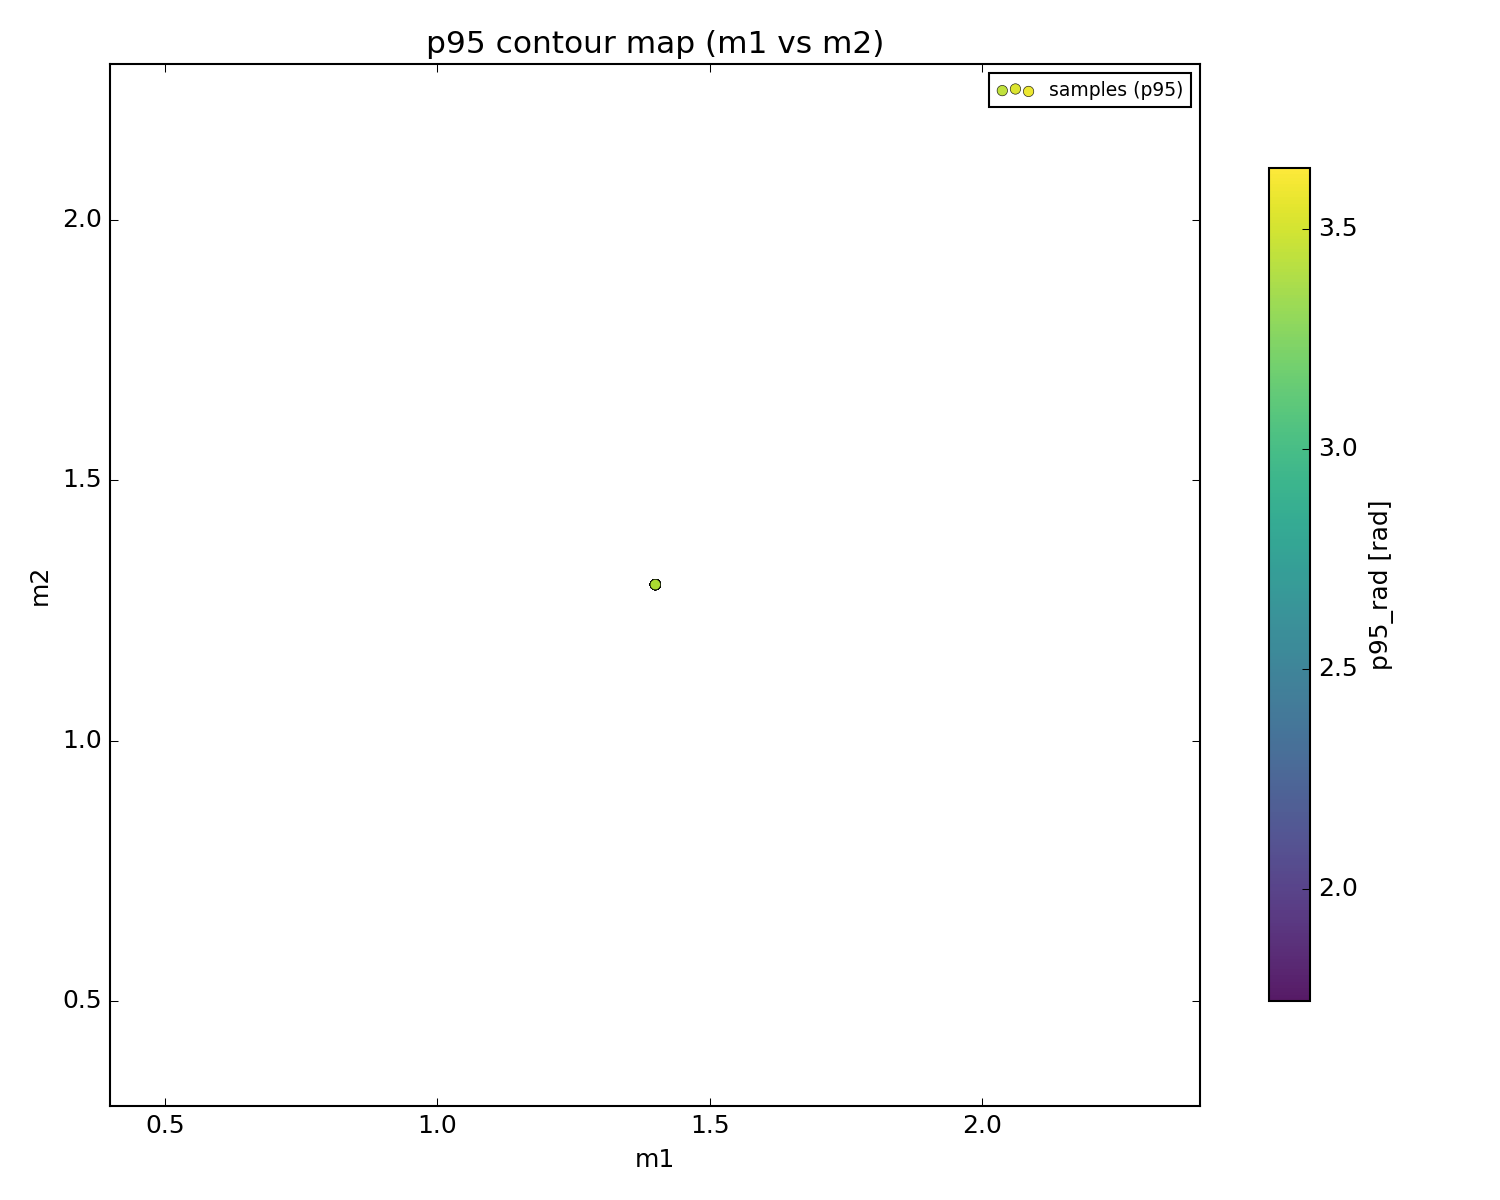
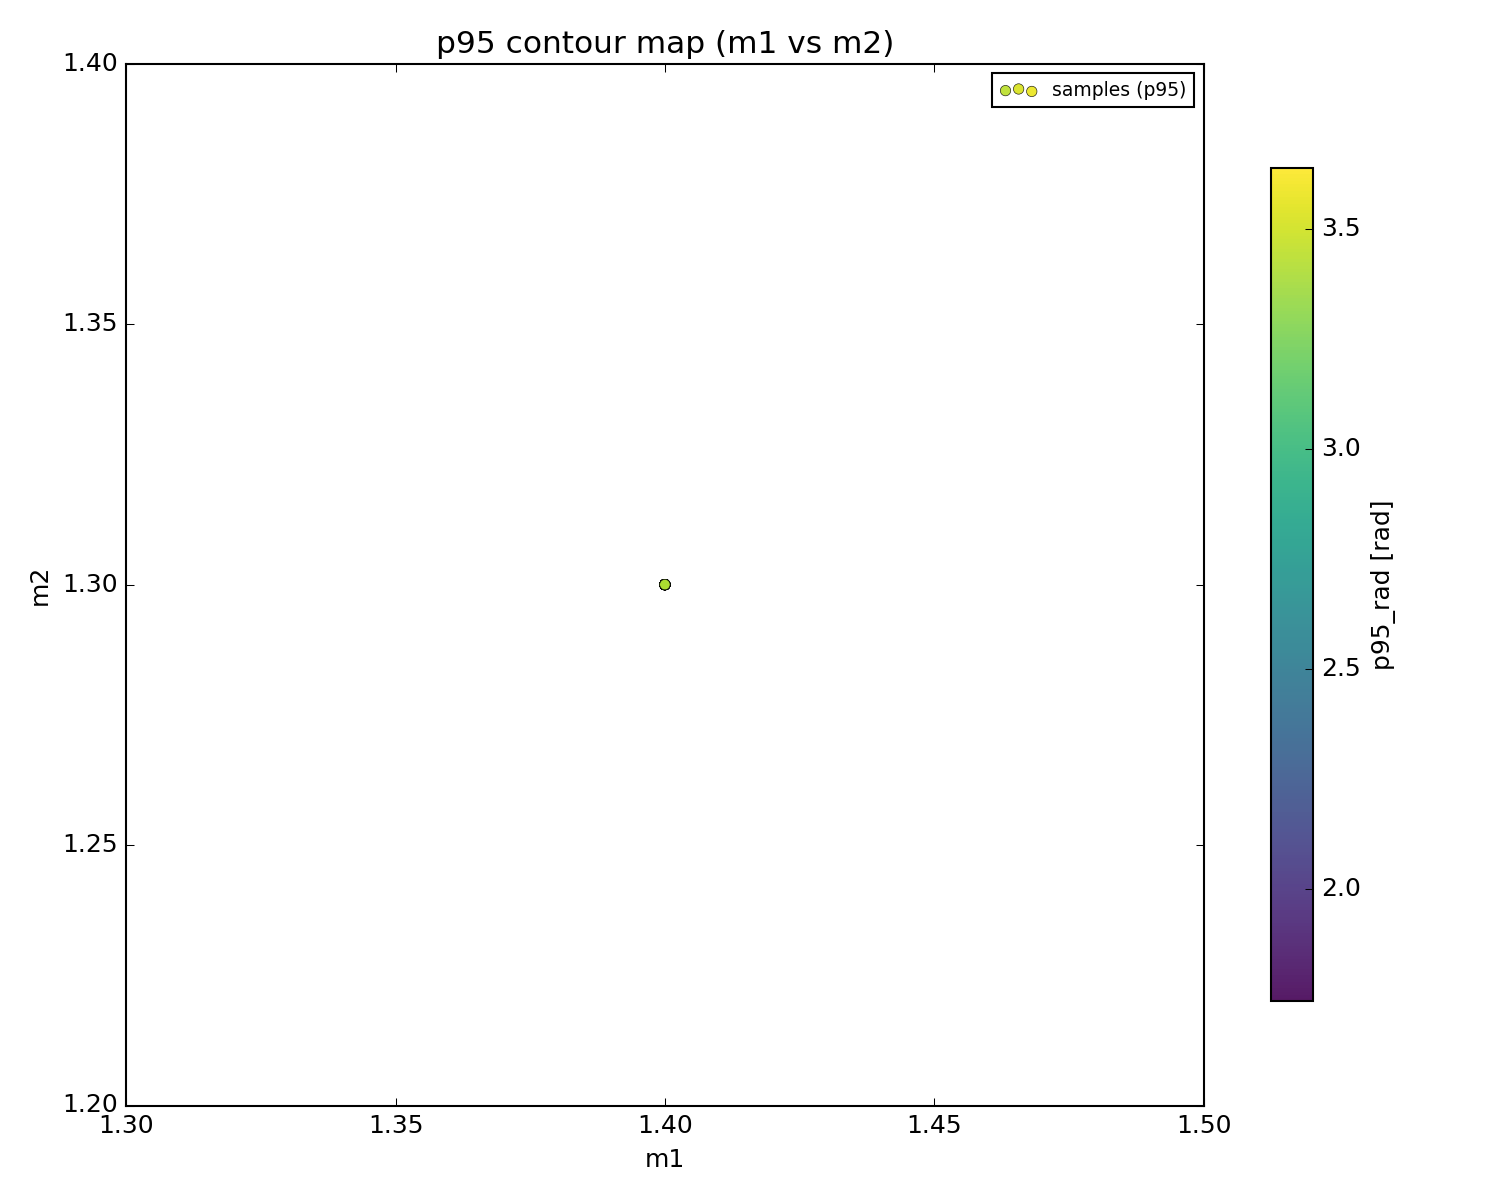
fix(viz): extreme outlier filtering for figs 01/06 and legend tweak for fig 03

diff --git a/zz-scripts/chapter10/10_fig_01_iso_p95_maps.py b/zz-scripts/chapter10/10_fig_01_iso_p95_maps.py
@@ -340,20 +340,18 @@ def main() -> None:
     ax.set_ylabel(args.m2_col)
     ax.set_title(args.title, fontsize=15)
 
-    # Forcer un cadrage serré sans aspect contraint
+    # Forcer un cadrage serré sans aspect contraint et filtrer les outliers
     ax.set_aspect("auto", adjustable="datalim")
-    ax.margins(0)
-    ax.axis("tight")
 
-    # Cadre serré autour des données (percentiles pour ignorer les outliers)
-    x_lo, x_hi = np.percentile(x, [0.1, 99.9])
-    y_lo, y_hi = np.percentile(y, [0.1, 99.9])
+    x_lo, x_hi = np.nanpercentile(x, [2, 98])
+    y_lo, y_hi = np.nanpercentile(y, [2, 98])
     if x_lo == x_hi:
-        x_lo, x_hi = x_lo - 1.0, x_hi + 1.0
+        x_lo, x_hi = x_lo - 0.1, x_hi + 0.1
     if y_lo == y_hi:
-        y_lo, y_hi = y_lo - 1.0, y_hi + 1.0
+        y_lo, y_hi = y_lo - 0.1, y_hi + 0.1
     ax.set_xlim(x_lo, x_hi)
     ax.set_ylim(y_lo, y_hi)
+    print(f"[DEBUG] fig01 x_lim=({x_lo:.4g},{x_hi:.4g}), y_lim=({y_lo:.4g},{y_hi:.4g})")
 
     leg = ax.legend(loc="upper right", frameon=True, fontsize=9)
     leg.set_zorder(20)

diff --git a/zz-scripts/chapter10/10_fig_06_residual_map.py b/zz-scripts/chapter10/10_fig_06_residual_map.py
@@ -431,17 +431,15 @@ def main() -> None:
     ax_main.set_xlabel("m1")
     ax_main.set_ylabel("m2")
     ax_main.set_aspect("auto", adjustable="datalim")
-    ax_main.margins(0)
-    ax_main.axis("tight")
-    x_lo, x_hi = np.percentile(x, [0.1, 99.9])
-    y_lo, y_hi = np.percentile(y, [0.1, 99.9])
+    x_lo, x_hi = np.nanpercentile(x, [2, 98])
+    y_lo, y_hi = np.nanpercentile(y, [2, 98])
     if x_lo == x_hi:
-        x_lo, x_hi = x_lo - 1.0, x_hi + 1.0
+        x_lo, x_hi = x_lo - 0.1, x_hi + 0.1
     if y_lo == y_hi:
-        y_lo, y_hi = y_lo - 1.0, y_hi + 1.0
+        y_lo, y_hi = y_lo - 0.1, y_hi + 0.1
     ax_main.set_xlim(x_lo, x_hi)
     ax_main.set_ylim(y_lo, y_hi)
-    ax_main.autoscale(enable=True, axis="both", tight=False)
+    print(f"[DEBUG] fig06 main x_lim=({x_lo:.4g},{x_hi:.4g}), y_lim=({y_lo:.4g},{y_hi:.4g})")
 
     # annotation mincnt
     ax_main.text(

diff --git a/zz-scripts/chapter10/10_fig_03_convergence.py b/zz-scripts/chapter10/10_fig_03_convergence.py
@@ -204,7 +204,7 @@ def main():
     ax.set_title(f"Convergence of {p95_col} estimation", fontsize=15)
 
     # Légende
-    leg = ax.legend(loc="lower left", frameon=True, fontsize=10)
+    leg = ax.legend(loc="lower right", bbox_to_anchor=(0.98, 0.02), frameon=True, fontsize=10)
     leg.set_zorder(5)
 
     # ----- Inset (zoom) : même logique que ta version -----
